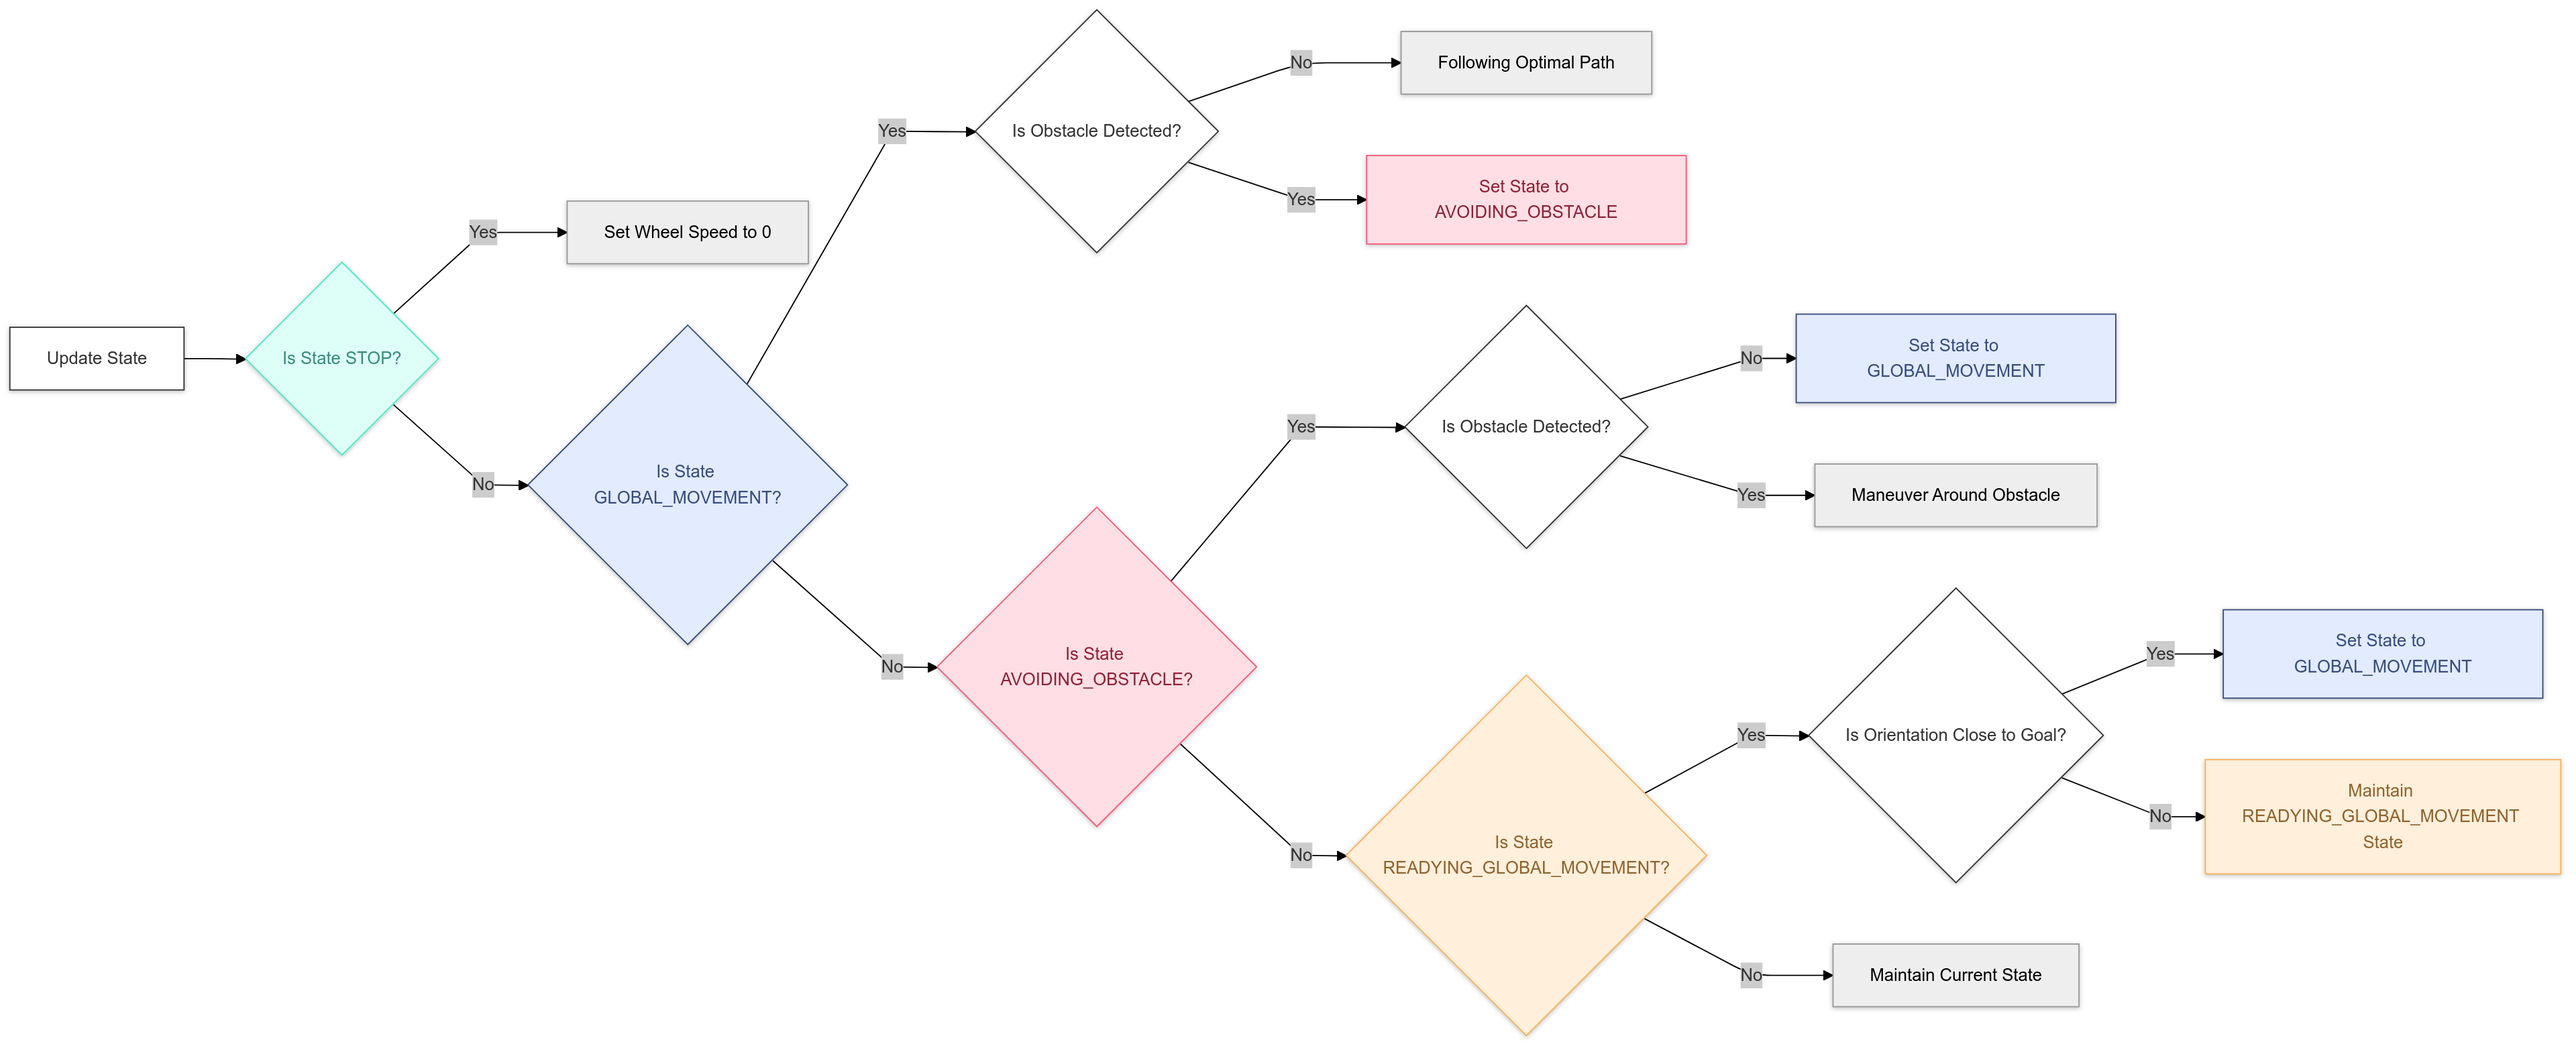
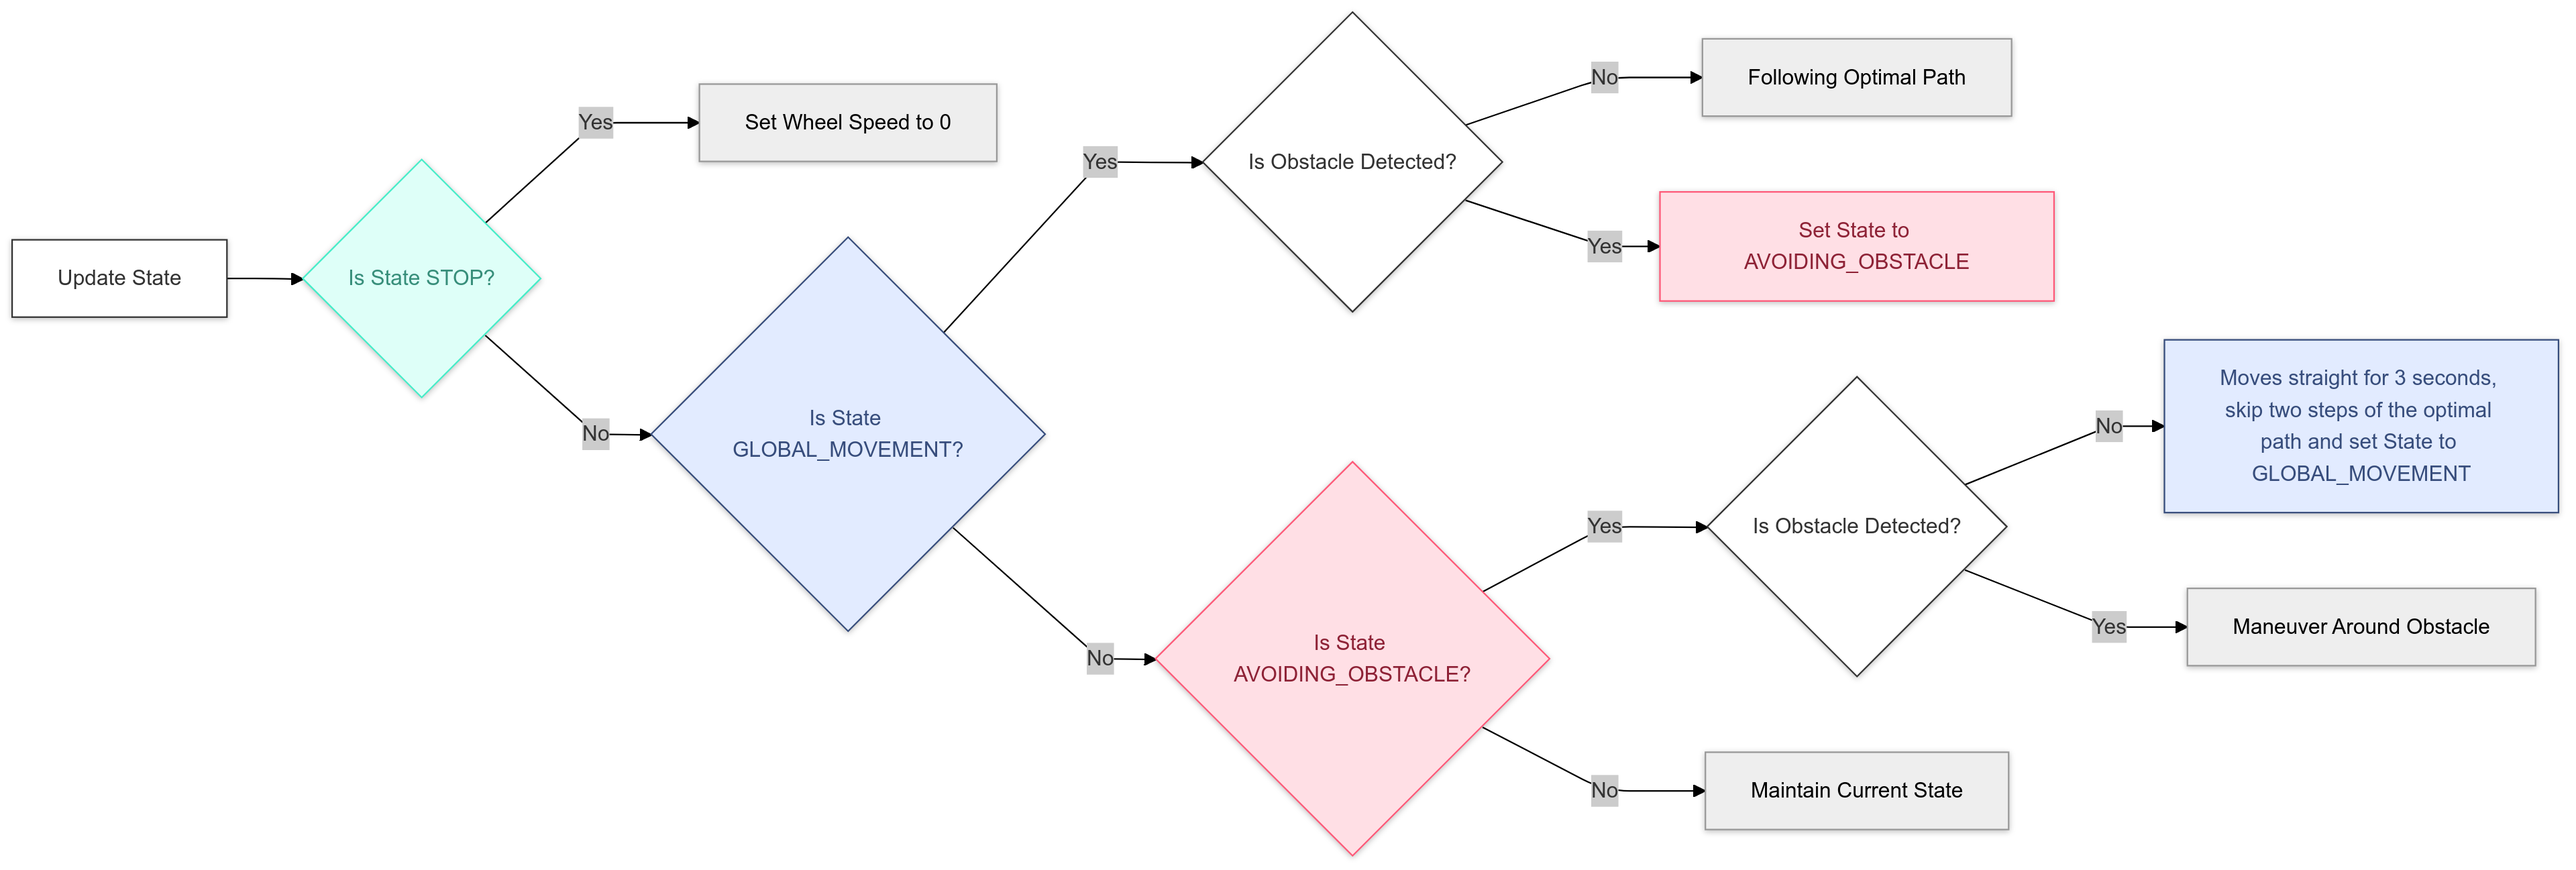
local nav + charts

diff --git a/local_navigation_and_control_all.py b/local_navigation_and_control_all.py
@@ -12,12 +12,11 @@ def alpha(p1, p2):
 
 
 class ThytanicState(Enum):
-    """Define the four operational states of the Thymio."""
+    """Define the operational states of the Thymio."""
 
     GLOBAL_MOVEMENT = 0
     AVOIDING_OBSTACLE = 1
     STOP = 2
-    READYING_GLOBAL_MOVEMENT = 3
 
 
 class ThytanicController:
@@ -192,13 +191,6 @@ class ThytanicController:
             self.goal_idx += 2
             self.robot_state = ThytanicState.GLOBAL_MOVEMENT
             self.control_robot()
-            # recompute path
-
-        elif (
-            self.robot_state == ThytanicState.READYING_GLOBAL_MOVEMENT
-            and abs(self.x_est[4] - alpha(self.path[0], self.path[4])) < 0.1
-        ):
-            self.robot_state = ThytanicState.GLOBAL_MOVEMENT
 
     def astolfi_control(self, state_est):
         """
